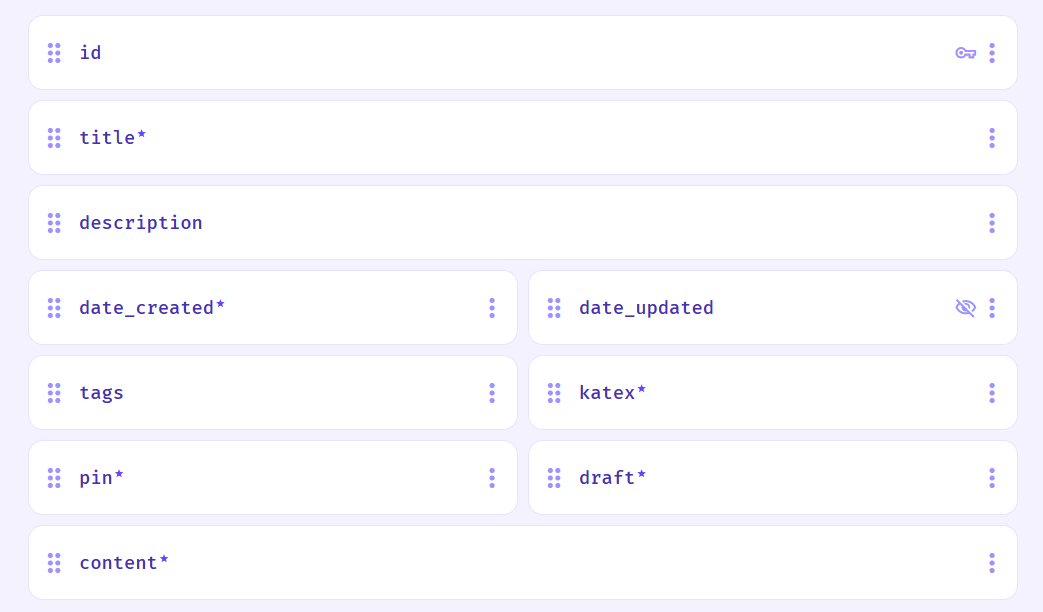
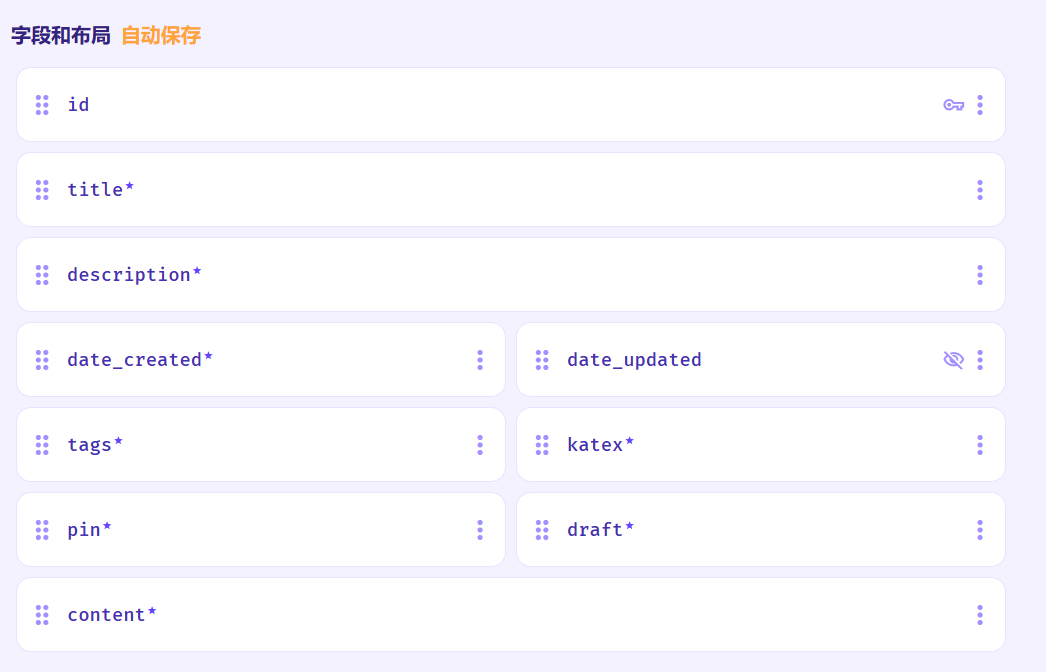
:memo: docs(README): 更新网站地址和README
更新了README文件中 directus 字段，避免 null 值造成构建失败。

diff --git a/src/lib/loader/LocalBlogLoader.ts b/src/lib/loader/LocalBlogLoader.ts
@@ -8,18 +8,13 @@ import { removeDupsAndLowercase } from './util';
 export const localBlogSchema = z.object({
     id: z.string(),
     title: z.string(),
-    description: z.string().default('').optional(),
+    description: z.string().default(''),
     date_created: z.date().transform((v) => new Date(v)),
     date_updated: z
         .date()
         .default(new Date())
-        .transform((v) => new Date(v))
-        .optional(),
-    tags: z
-        .array(z.string())
-        .default([])
-        .transform(removeDupsAndLowercase)
-        .optional(),
+        .transform((v) => new Date(v)),
+    tags: z.array(z.string()).default([]).transform(removeDupsAndLowercase),
     katex: z.boolean().default(false),
     pin: z.boolean().default(false),
     draft: z.boolean().default(true),

diff --git a/src/lib/loader/DirectusLoader.ts b/src/lib/loader/DirectusLoader.ts
@@ -27,18 +27,13 @@ type DirectusSchema = {
 export const directSchema = z.object({
     id: z.string(),
     title: z.string(),
-    description: z.string().default('').optional(),
+    description: z.string().default(''),
     date_created: z.date().transform((v) => new Date(v)),
     date_updated: z
         .date()
         .default(new Date())
-        .transform((v) => new Date(v))
-        .optional(),
-    tags: z
-        .array(z.string())
-        .default([])
-        .transform(removeDupsAndLowercase)
-        .optional(),
+        .transform((v) => new Date(v)),
+    tags: z.array(z.string()).default([]).transform(removeDupsAndLowercase),
     katex: z.boolean().default(false),
     pin: z.boolean().default(false),
     draft: z.boolean().default(true),

diff --git a/astro.config.ts b/astro.config.ts
@@ -9,7 +9,7 @@ import { remarkReadingTime } from './src/lib/plugin/remark-reading-time.mjs';
 
 // https://astro.build/config
 export default defineConfig({
-    site: 'https://blog.ppixiu.com',
+    site: 'https://blog.twiify.com',
     integrations: [
         astroExpressiveCode(expressiveCodeOptions),
         sitemap(),

diff --git a/README.md b/README.md
@@ -17,9 +17,9 @@
 ## 目录
 
 1. [特性](#特征)
-2. [快速开始](#快速开始)
-3. [命令](#命令)
-4. [配置](#配置)
+2. [命令](#命令)
+3. [配置](#配置)
+4. [部署](#部署)
 
 ## 特征:
 
@@ -44,7 +44,7 @@
 
 | Command                    | Action                                            |
 | :------------------------- | :------------------------------------------------ |
-| `pnpm install`             | 安装以来                                          |
+| `pnpm install`             | 安装依赖                                          |
 | `pnpm run dev`             | 启动本地开发服务器： `localhost:4321`             |
 | `pnpm run build`           | 构建生产版本代码到 `./dist/`                      |
 | `pnpm run preview`         | 部署前预览本地构建的代码                          |
@@ -57,7 +57,9 @@
 
 ### Site Config, Social Media Links and Navbar Links
 
-您的网站配置、社交媒体链接和导航栏链接都放在`src/consts.ts`中。
+网站网址需要在文件 `astro.config.ts` 中 `site` 字段修改。
+
+网站配置、社交媒体链接和导航栏链接配置在文件 `src/consts.ts` 中。
 您可以通过该文件配置您的网站默认标题、描述、语言、个人资料、社交媒体链接和可见导航栏链接、代码主题等。
 
 <p align="right">(<a href="#readme-top">back to top</a>)</p>
@@ -99,7 +101,7 @@ const blog = defineCollection({
 export type DirectusBlogPost = {
     id: string;
     title: string;
-    description?: string; // 可为空值
+    description?: string;
     date_created: string;
     date_updated?: string;
     tags?: string;
